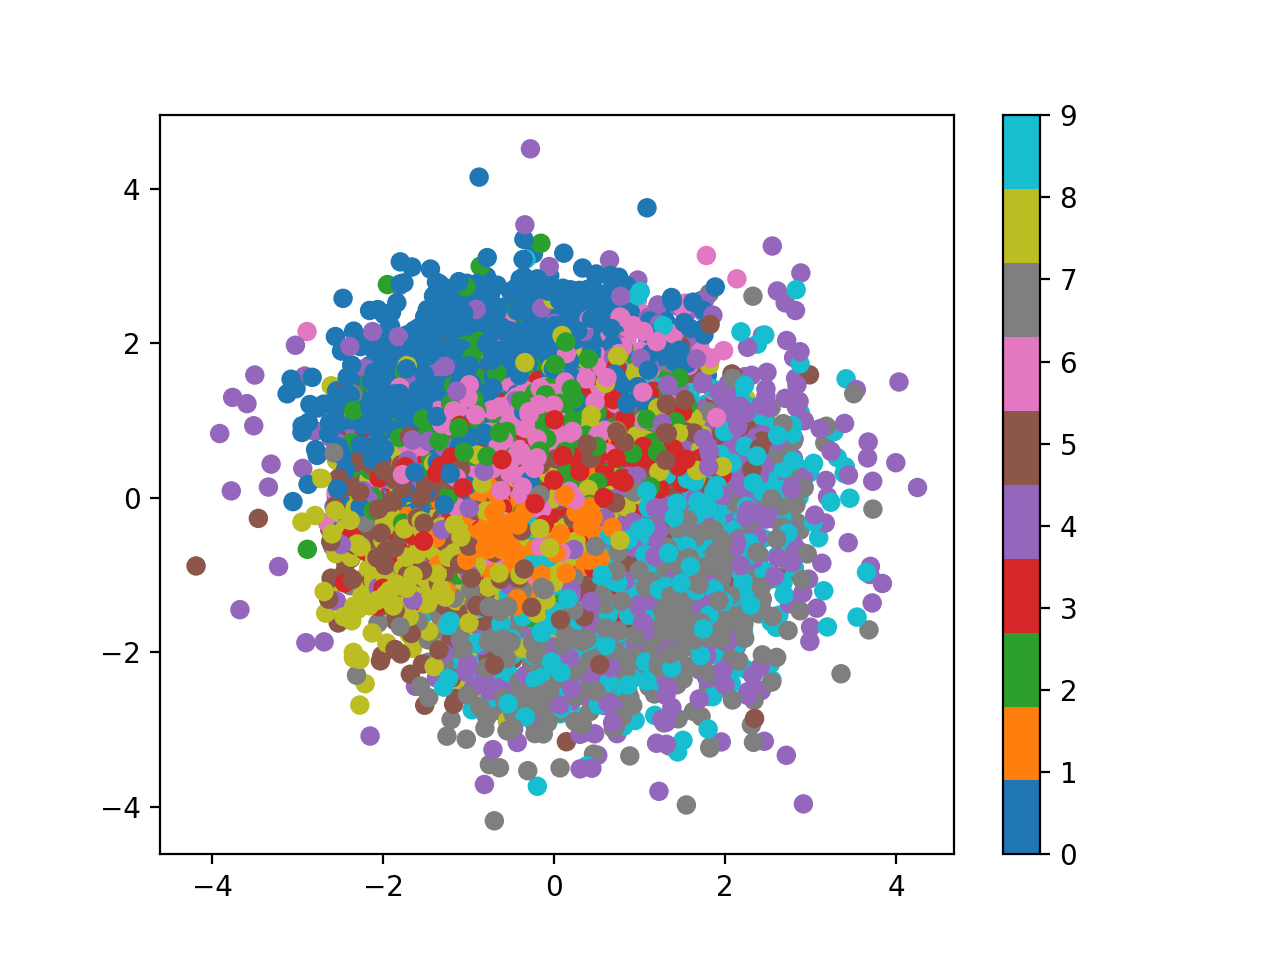
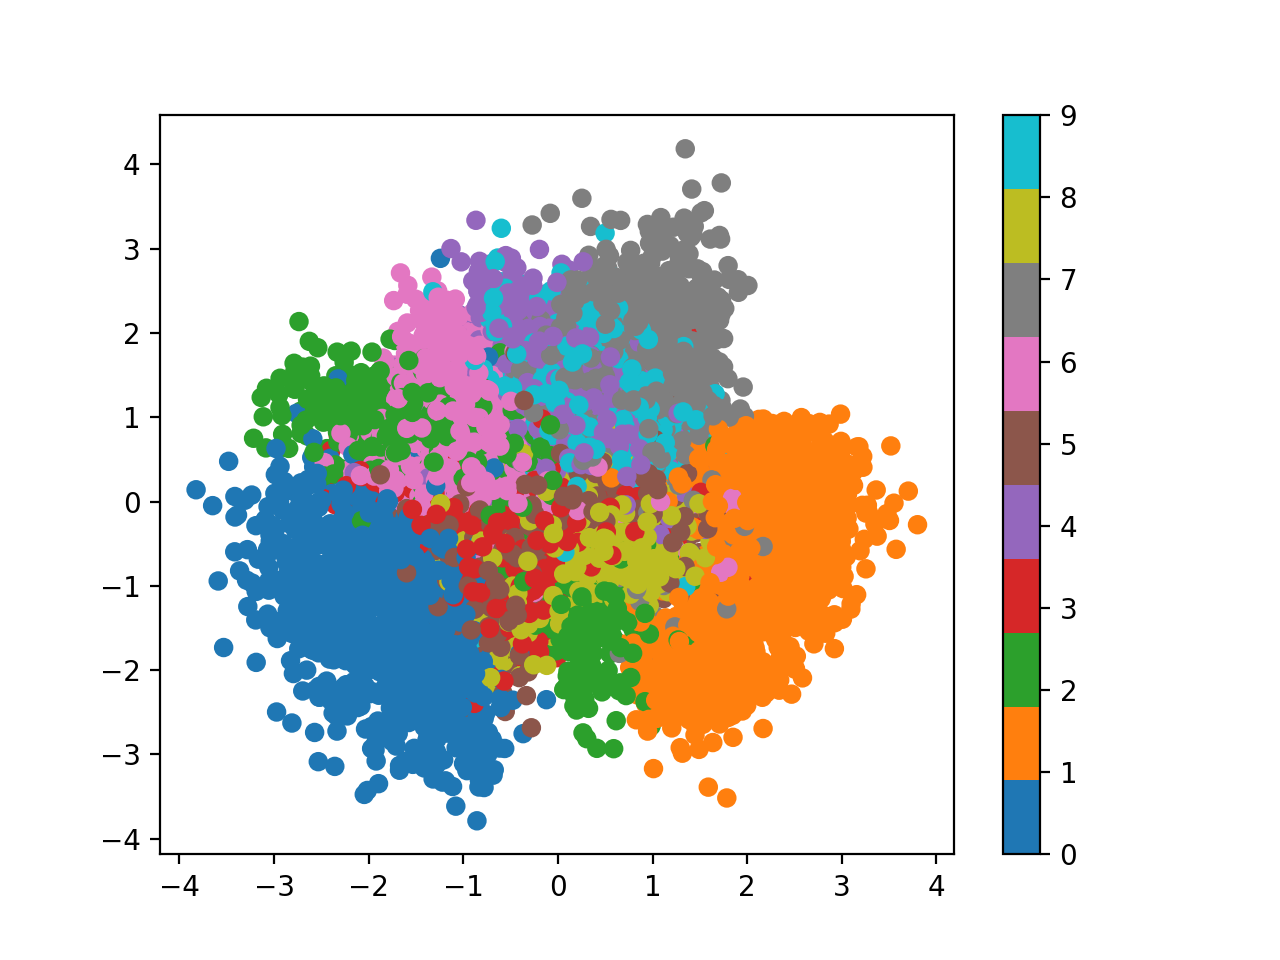
add inference function

diff --git a/Pytorch/data_compression_models/experiments/vae_MINST/utils.py b/Pytorch/data_compression_models/experiments/vae_MINST/utils.py
@@ -1,31 +1,36 @@
 import torch
 import numpy as np
 import matplotlib.pyplot as plt; plt.rcParams['figure.dpi'] = 200
+from torchvision.utils import save_image
 
 
-def get_accuracy(data_loader, model, batch_size, device):
+def inference(digit, model, dataset, num_examples = 1):
     """
-    compute the accuracy over the supervised training set or the testing set
+    Generates (num_examples) of a particular digit.
+    Get learned mu and sigma for that digit representation.
     """
-    pass
-    # model.eval()
-    # predictions_d, actuals_d, predictions_y, actuals_y = [], [], [], []
-    #
-    # with torch.no_grad():
-    #     for x, y in data_loader:
-    #         # to device
-    #         x, y = x.to(device=device), y.to(device=device)
-    #
-    #         scores = model(x))
-    #         predictions = (scores > 0.5).float()
-    #         num_correct += (predictions == y).sum()
-    #         num_samples += predictions.shape[0]
-    #
-    #     print(f'Got {num_correct} / {num_samples} with accuracy {float(num_correct) / float(num_samples) * 100:.2f}')
+    images = []
+    idx = 0
+    for x, y in dataset:
+        if y == idx:
+            images.append(x)
+            idx += 1
+        if idx == 10:
+            break
+    encodings_digit = []
+    for d in range(10):
+        with torch.no_grad():
+            mu, sigma = model.encoder(images[d].view(1, 784))
+        encodings_digit.append((mu, sigma))
 
-
-def get_reconstruction():
-    pass
+    mu, sigma = encodings_digit[digit]
+    learned_dist = torch.distributions.Normal(mu, sigma)
+    for example in range(num_examples):
+        z = learned_dist.rsample()
+        out = model.decoder(z)
+        out = out.view(-1, 1, 28, 28)
+        save_image(out, f"plots/generated_{digit}_ex{example}.png")
+    return None
 
 
 def plot_reconstructed(trained_model, device, r0=(-5, 10), r1=(-10, 5), n=12):

diff --git a/Pytorch/data_compression_models/experiments/autoencoder_MNIST/utils.py b/Pytorch/data_compression_models/experiments/autoencoder_MNIST/utils.py
@@ -3,31 +3,6 @@ import numpy as np
 import matplotlib.pyplot as plt; plt.rcParams['figure.dpi'] = 200
 
 
-def get_accuracy(data_loader, model, batch_size, device):
-    """
-    compute the accuracy over the supervised training set or the testing set
-    """
-    pass
-    # model.eval()
-    # predictions_d, actuals_d, predictions_y, actuals_y = [], [], [], []
-    #
-    # with torch.no_grad():
-    #     for x, y in data_loader:
-    #         # to device
-    #         x, y = x.to(device=device), y.to(device=device)
-    #
-    #         scores = model(x))
-    #         predictions = (scores > 0.5).float()
-    #         num_correct += (predictions == y).sum()
-    #         num_samples += predictions.shape[0]
-    #
-    #     print(f'Got {num_correct} / {num_samples} with accuracy {float(num_correct) / float(num_samples) * 100:.2f}')
-
-
-def get_reconstruction():
-    pass
-
-
 def plot_reconstructed(trained_model, device, r0=(-5, 10), r1=(-10, 5), n=12):
     """
     Reconstructs inputs from arbitrary latent vectors

diff --git a/Pytorch/data_compression_models/experiments/vae_MINST/train_vae.py b/Pytorch/data_compression_models/experiments/vae_MINST/train_vae.py
@@ -5,7 +5,7 @@ from torchvision import datasets, transforms
 from torch.utils.data import DataLoader
 from tqdm import tqdm
 from data_compression_models.models.variational_autoencoder import VariationalAutoencoder
-from utils import plot_latents, plot_training_loss, plot_reconstructed
+from utils import plot_latents, plot_training_loss, plot_reconstructed, inference
 import config_vae
 
 
@@ -64,8 +64,10 @@ def main():
     plot_training_loss(train_recon_losses, "reconstruction_loss_training")
     plot_training_loss(train_total_losses, "reconstruction_KL_divergence_loss_training")
 
-    # plot_latents(trained_vae, train_loader, config_vae.DEVICE)
+    plot_latents(trained_vae, train_loader, config_vae.DEVICE)
     plot_reconstructed(trained_vae, config_vae.DEVICE, r0=(-3, 3), r1=(-3, 3))
+
+    inference(digit=8, model=trained_vae, dataset=train_data, num_examples=2)
 
 
 if __name__ == "__main__":

diff --git a/Pytorch/data_compression_models/models/variational_autoencoder.py b/Pytorch/data_compression_models/models/variational_autoencoder.py
@@ -81,5 +81,3 @@ class VariationalAutoencoder(nn.Module):
         total_loss = reconst_loss + kl_loss
 
         return total_loss, reconst_loss
-
-
